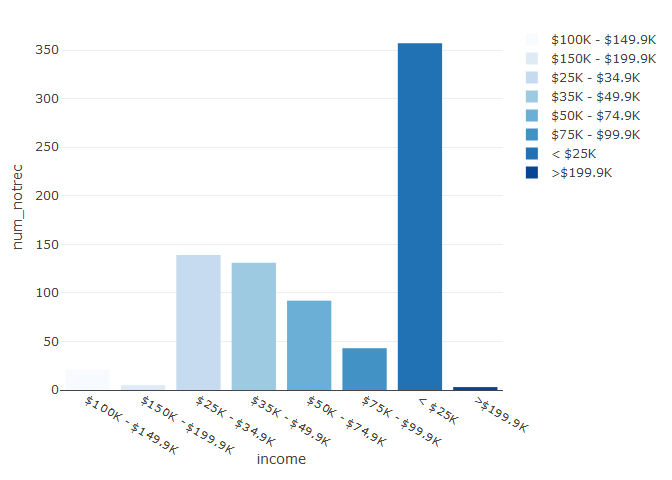
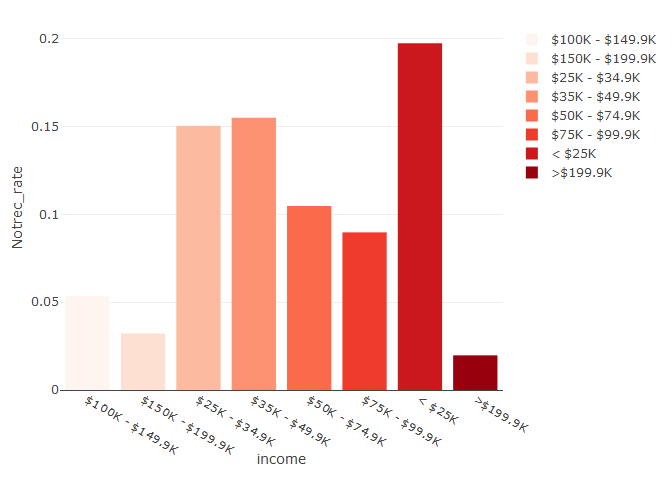
working on plotly maps

diff --git a/Midterm/README.md b/Midterm/README.md
@@ -1,7 +1,7 @@
 Midterm
 ================
 Camille Parchment
-2022-11-22
+2022-11-28
 
 ``` r
 rm(list = ls())
@@ -998,11 +998,11 @@ plot_ly(x = ~income, y = ~num_notrec,
 ``` r
 DF_income_Pub %>%
   
-plot_ly(x = ~income, y = ~num_notrec, 
+plot_ly(x = ~income, y = ~Notrec_rate, 
                    type = 'bar',
                    mode = 'markers',
                    color = ~income,
-                   colors = "Blues")
+                   colors = "Reds")
 ```
 
     ## Warning: 'bar' objects don't have these attributes: 'mode'
@@ -1038,3 +1038,147 @@ plot_ly(x = ~income, y = ~num_notrec,
     ## '_deprecated', 'alignmentgroup', 'base', 'basesrc', 'cliponaxis', 'constraintext', 'customdata', 'customdatasrc', 'dx', 'dy', 'error_x', 'error_y', 'hoverinfo', 'hoverinfosrc', 'hoverlabel', 'hovertemplate', 'hovertemplatesrc', 'hovertext', 'hovertextsrc', 'ids', 'idssrc', 'insidetextanchor', 'insidetextfont', 'legendgroup', 'legendgrouptitle', 'legendrank', 'marker', 'meta', 'metasrc', 'name', 'offset', 'offsetgroup', 'offsetsrc', 'opacity', 'orientation', 'outsidetextfont', 'selected', 'selectedpoints', 'showlegend', 'stream', 'text', 'textangle', 'textfont', 'textposition', 'textpositionsrc', 'textsrc', 'texttemplate', 'texttemplatesrc', 'transforms', 'type', 'uid', 'uirevision', 'unselected', 'visible', 'width', 'widthsrc', 'x', 'x0', 'xaxis', 'xcalendar', 'xhoverformat', 'xperiod', 'xperiod0', 'xperiodalignment', 'xsrc', 'y', 'y0', 'yaxis', 'ycalendar', 'yhoverformat', 'yperiod', 'yperiod0', 'yperiodalignment', 'ysrc', 'key', 'set', 'frame', 'transforms', '_isNestedKey', '_isSimpleKey', '_isGraticule', '_bbox'
 
 ![](README_files/figure-gfm/unnamed-chunk-29-1.png)<!-- -->
+
+``` r
+library(leaflet)
+```
+
+``` r
+library(RColorBrewer)
+```
+
+``` r
+library(sf)
+```
+
+    ## Warning: package 'sf' was built under R version 4.2.2
+
+    ## Linking to GEOS 3.9.3, GDAL 3.5.2, PROJ 8.2.1; sf_use_s2() is TRUE
+
+``` r
+library(rgdal)
+```
+
+    ## Warning: package 'rgdal' was built under R version 4.2.2
+
+    ## Loading required package: sp
+
+    ## Please note that rgdal will be retired during 2023,
+    ## plan transition to sf/stars/terra functions using GDAL and PROJ
+    ## at your earliest convenience.
+    ## See https://r-spatial.org/r/2022/04/12/evolution.html and https://github.com/r-spatial/evolution
+    ## rgdal: version: 1.6-2, (SVN revision 1183)
+    ## Geospatial Data Abstraction Library extensions to R successfully loaded
+    ## Loaded GDAL runtime: GDAL 3.5.2, released 2022/09/02
+    ## Path to GDAL shared files: C:/Users/camil/AppData/Local/R/win-library/4.2/rgdal/gdal
+    ## GDAL binary built with GEOS: TRUE 
+    ## Loaded PROJ runtime: Rel. 8.2.1, January 1st, 2022, [PJ_VERSION: 821]
+    ## Path to PROJ shared files: C:/Users/camil/AppData/Local/R/win-library/4.2/rgdal/proj
+    ## PROJ CDN enabled: FALSE
+    ## Linking to sp version:1.5-1
+    ## To mute warnings of possible GDAL/OSR exportToProj4() degradation,
+    ## use options("rgdal_show_exportToProj4_warnings"="none") before loading sp or rgdal.
+
+``` r
+library(raster)
+```
+
+    ## 
+    ## Attaching package: 'raster'
+
+    ## The following object is masked from 'package:plotly':
+    ## 
+    ##     select
+
+    ## The following object is masked from 'package:dplyr':
+    ## 
+    ##     select
+
+``` r
+large_data <- fread("world_country_and_usa_states_latitude_and_longitude_values.csv")
+```
+
+``` r
+state.lat.lon <- large_data[, c("usa_state", "usa_state_latitude", "usa_state_longitude")]
+state_data <- state.lat.lon[-40,]
+```
+
+``` r
+state_data <-rename(state_data, state = usa_state)
+```
+
+``` r
+state_data.comp <- state_data %>%
+                  left_join(DF2, by = c("state"))
+```
+
+``` r
+labels <- sprintf("<strong><br/>%g services not recieved rate", state_data.comp$Notrec_rate) %>% lapply(htmltools:: HTML)
+
+notrec.pal <- colorNumeric(palette = "PuRd", domain = state_data.comp$Notrec_rate)
+```
+
+map \<- state_data.comp %\>% st_transform (crs = “+init=epsg:4326”) %\>%
+leaflet() %\>% addProviderTiles(provider = “CartoDB.Positron”) %\>%
+addPolygons(label = labels, stroke = FALSE,
+
+              fillOpacity = 0.7,
+              opacity = 1,
+              fillColor = ~notrec.pal(Notrec_rate)                         )
+
+``` r
+l <- list(color = toRGB("white"), width=2)
+```
+
+``` r
+g <- list(
+     scope = 'usa',
+     projection = list(type = 'albers usa'),
+     showlakes = TRUE, 
+     lakecolor = toRGB('white')
+)
+```
+
+``` r
+state_data.comp$hover <- with(state_data.comp, paste(state, "state", '<br>', Notrec_rate, "services not received " ))
+```
+
+``` r
+fig <- plot_geo(state_data.comp, 
+               locationmode = 'USA-states')
+```
+
+``` r
+fig <- fig %>% add_trace 
+            z= ~state_data.comp$Total_sv_needed    
+            text= ~state_data.comp$hover
+       locations= ~state_data.comp$state
+           color= ~state_data.comp$Notrec_rate
+          colors= "Purples"
+```
+
+``` r
+fig %>% colorbar(title = "The rate of services not recieved")
+```
+
+    ## No scattergeo mode specifed:
+    ##   Setting the mode to markers
+    ##   Read more about this attribute -> https://plotly.com/r/reference/#scatter-mode
+
+    ## Warning: Didn't find a colorbar to modify.
+
+![](README_files/figure-gfm/unnamed-chunk-45-1.png)<!-- -->
+
+``` r
+fig %>% layout (title = "Mental Health Services Requested and Not Recieved")
+```
+
+    ## No scattergeo mode specifed:
+    ##   Setting the mode to markers
+    ##   Read more about this attribute -> https://plotly.com/r/reference/#scatter-mode
+
+![](README_files/figure-gfm/unnamed-chunk-45-2.png)<!-- -->
+
+``` r
+         geo =g
+```
